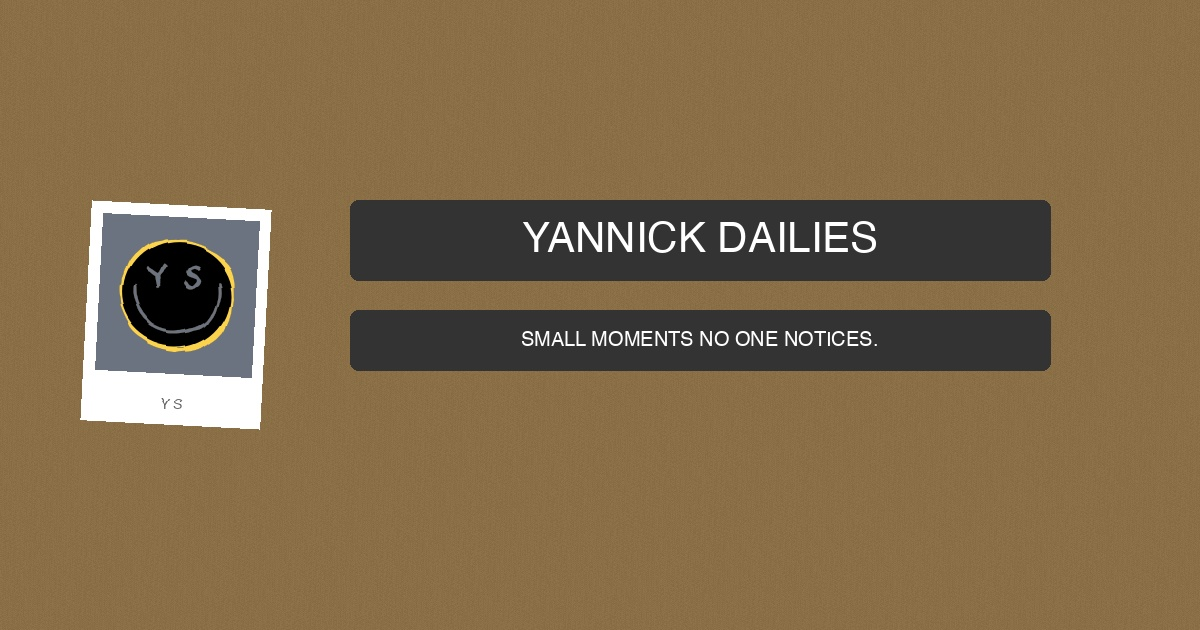
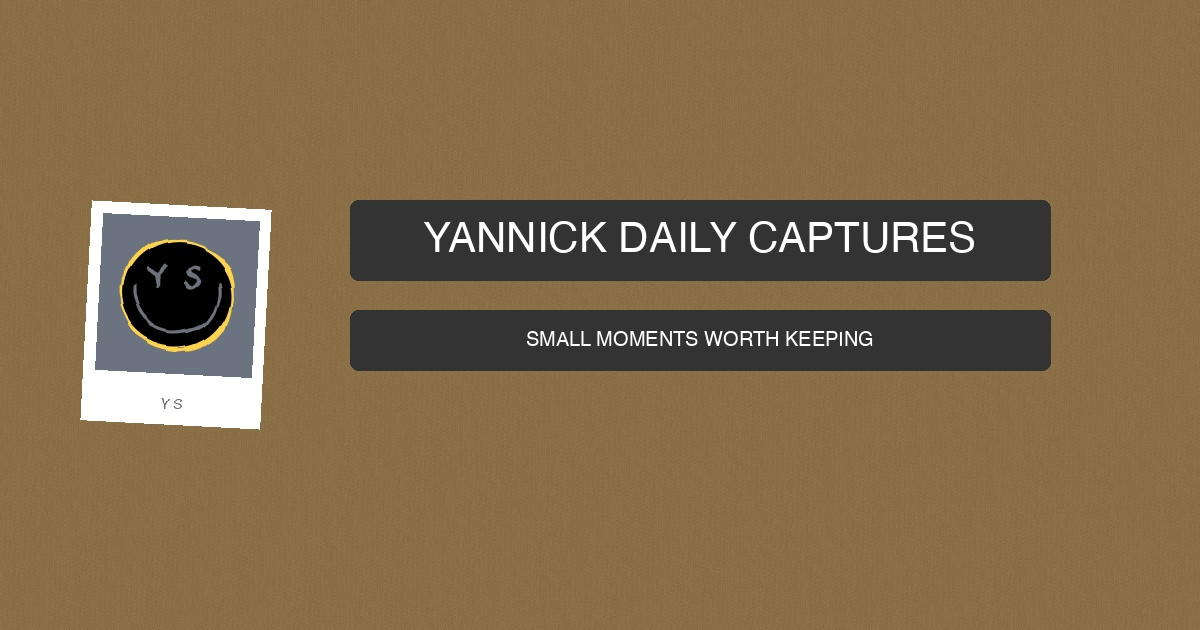
Update branding to 'Daily Captures' - more personal and authentic
- Change from 'Daily Memories' to 'Daily Captures'
- Update tagline: 'Small moments I liked enough to capture'
- New subtitle: 'Small moments worth keeping'
- More personal voice, less generic
- Update all metadata, OG image, and page titles

Changed region(s): [[0.3392, 0.3317, 0.8325, 0.4222], [0.4317, 0.5127, 0.74, 0.573]]

diff --git a/src/app/layout.tsx b/src/app/layout.tsx
@@ -14,11 +14,11 @@ const siteUrl =
 export const metadata: Metadata = {
   metadataBase: new URL(siteUrl),
   title: {
-    default: "Yannick's Daily Memories - Polaroid Moments & Life",
-    template: "%s | Yannick's Daily Memories",
+    default: "Yannick's Daily Captures - Small Moments Worth Keeping",
+    template: "%s | Yannick's Daily Captures",
   },
   description:
-    "Small moments no one notices. Yannick's daily photo collection captured through polaroid-style photography - a table full of everyday memories.",
+    "Small moments I liked enough to capture. A collection of everyday life fragments presented as polaroid-style photos.",
   keywords: [
     "photography",
     "polaroid",
@@ -33,10 +33,10 @@ export const metadata: Metadata = {
     type: "website",
     locale: "en_US",
     url: siteUrl,
-    siteName: "Yannick's Daily Memories",
-    title: "Yannick's Daily Memories - Polaroid Moments & Life",
+    siteName: "Yannick's Daily Captures",
+    title: "Yannick's Daily Captures - Small Moments Worth Keeping",
     description:
-      "Small moments no one notices. Yannick's daily photo collection captured through polaroid-style photography - a table full of everyday memories.",
+      "Small moments I liked enough to capture. A collection of everyday life fragments presented as polaroid-style photos.",
     images: [
       {
         url: "/og-image.jpg",
@@ -48,9 +48,9 @@ export const metadata: Metadata = {
   },
   twitter: {
     card: "summary_large_image",
-    title: "Yannick's Daily Memories - Polaroid Moments & Life",
+    title: "Yannick's Daily Captures - Small Moments Worth Keeping",
     description:
-      "Small moments no one notices. Yannick's daily photo collection captured through polaroid-style photography - a table full of everyday memories.",
+      "Small moments I liked enough to capture. A collection of everyday life fragments presented as polaroid-style photos.",
     images: ["/og-image.jpg"],
     creator: "@yannick",
   },

diff --git a/src/app/page.tsx b/src/app/page.tsx
@@ -25,10 +25,8 @@ function readHomeContent() {
 export async function generateMetadata(): Promise<Metadata> {
   const { title, description } = readHomeContent();
   return {
-    title: title || "Yannick's Dailies",
-    description:
-      description ||
-      "Small moments no one notices. A collection of polaroid memories.",
+    title: title || "Yannick's Daily Captures",
+    description: description || "Small moments I liked enough to capture.",
   };
 }
 

diff --git a/generate_og_image.py b/generate_og_image.py
@@ -117,7 +117,7 @@ except:
     subtitle_font = ImageFont.load_default()
 
 # Title text with wide letter spacing
-title_text = "YANNICK DAILIES"
+title_text = "YANNICK DAILY CAPTURES"
 draw.text(
     (box_x + box1_width // 2, box1_y + box1_height // 2),
     title_text,
@@ -127,7 +127,7 @@ draw.text(
 )
 
 # Subtitle text
-subtitle_text = "SMALL MOMENTS NO ONE NOTICES."
+subtitle_text = "SMALL MOMENTS WORTH KEEPING"
 draw.text(
     (box_x + box2_width // 2, box2_y + box2_height // 2),
     subtitle_text,
